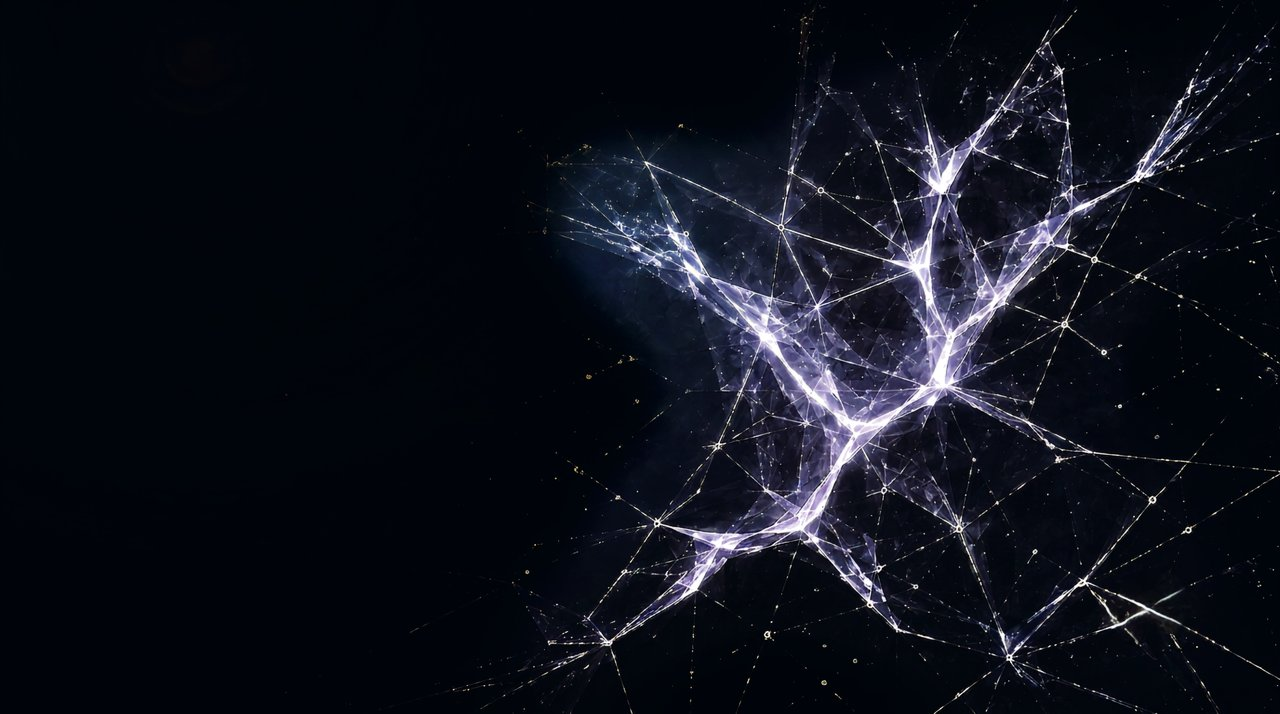
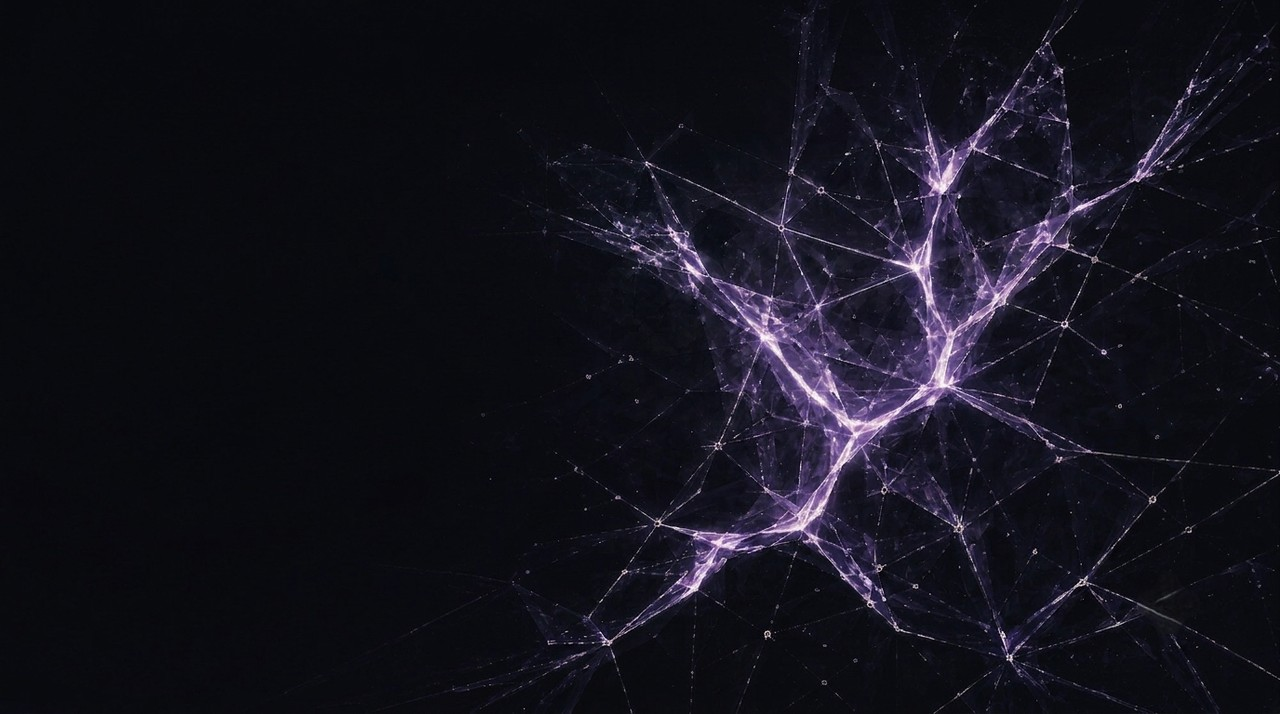
Align hero to Image 1 master and Image 2 layout
Use Image 1 as the exact cover background without recoloring.
Match header/typography spacing and the seven date labels from
Image 2 as plain serif text; remove hero gradients, fade overlay,
and year text-shadow.

diff --git a/index.html b/index.html
@@ -62,61 +62,49 @@ section{padding:104px 0}
 .sect-head p{color:var(--ink-2);margin-top:16px;font-size:18px;max-width:680px}
 .hr{height:1px;background:var(--line-strong);width:72px;margin-top:30px}
 
-/* NAV — бренд слева, пункты макета справа; над героем — светлый капс */
+/* NAV — над героем: кластер ссылок как в утверждённом макете (Image 2);
+   ниже героя — бренд слева, пункты справа */
 nav{position:sticky;top:0;z-index:50;background:rgba(239,241,244,.9);backdrop-filter:blur(12px);border-bottom:1px solid var(--line);transition:background-color .3s ease,border-color .3s ease}
 nav .wrap{display:flex;align-items:center;gap:16px;min-height:var(--navh);height:auto;padding-top:10px;padding-bottom:10px;max-width:1320px}
-nav .brand{font-family:var(--serif);font-size:19px;font-weight:500;letter-spacing:.01em;color:var(--ink);margin-right:auto;background:none;border:none;padding:0;cursor:pointer;white-space:nowrap;transition:color .3s ease}
+nav .brand{font-family:var(--serif);font-size:19px;font-weight:500;letter-spacing:.01em;color:var(--ink);margin-right:auto;background:none;border:none;padding:0;cursor:pointer;white-space:nowrap;transition:color .3s ease,opacity .2s ease}
 .nav-links{display:flex;align-items:center;flex-wrap:wrap;justify-content:flex-end;gap:10px 22px;min-width:0}
 .navbtn{position:relative;background:none;border:none;color:var(--ink-2);font-family:var(--sans);font-size:12px;font-weight:500;letter-spacing:.14em;text-transform:uppercase;padding:8px 0;margin:0;cursor:pointer;transition:color .2s;white-space:nowrap}
 .navbtn:hover{color:var(--ink)}
 .navbtn.active{color:var(--ink)}
 .navbtn.active::after{content:"";position:absolute;left:0;right:0;bottom:2px;height:1px;background:currentColor;opacity:.45}
-body.over-hero nav{background:linear-gradient(180deg,rgba(5,10,22,.45) 0%,rgba(5,10,22,.18) 62%,rgba(5,10,22,0) 100%) no-repeat;backdrop-filter:none;border-color:transparent}
-body.over-hero nav .brand{color:var(--hero-ink)}
-body.over-hero .navbtn{color:var(--hero-ink-2)}
-body.over-hero .navbtn:hover{color:var(--hero-ink)}
-body.over-hero .navbtn.active{color:#DBD5EF}
+body.over-hero nav{background:transparent;backdrop-filter:none;border-color:transparent}
+body.over-hero nav .wrap{padding-top:28px;padding-bottom:12px}
+body.over-hero nav .brand{position:absolute;width:1px;height:1px;overflow:hidden;clip:rect(0 0 0 0);white-space:nowrap}
+body.over-hero .nav-links{justify-content:flex-start;gap:10px 41px;margin-right:auto}
+body.over-hero .navbtn{font-size:15px;letter-spacing:.08em;color:rgba(214,207,193,.9)}
+body.over-hero .navbtn:hover{color:#F0EBE3}
+body.over-hero .navbtn.active{color:#F0EBE3}
+body.over-hero .nav-tree{display:none}
 .page{display:none}
 .page.visible{display:block}
 
-/* HERO — тёмно-синее поле: слева заголовок над тонкой сиреневой линейкой,
-   подзаголовок в две строки и текстовая CTA. Светящаяся сеть — не фигура
-   рядом с текстом, а фоновая композиция: исходный PNG на всю площадь героя,
-   уходящий за правый срез кадра (см. .hero-art).
-   Фон под картинкой повторяет её тёмно-синюю заливку — он виден только до
-   загрузки изображения и по краям при экзотических пропорциях окна */
-.hero{position:relative;overflow:hidden;background:#070C16 radial-gradient(128% 118% at 6% 4%,#17417C 0%,#0E2A57 26%,#081730 56%,#060B15 100%);color:var(--hero-ink);margin-top:calc(var(--navh) * -1);padding:calc(var(--navh) + 56px) 0 140px;min-height:min(96vh,1000px);min-height:min(96svh,1000px);display:flex;align-items:center}
-.hero .wrap{width:100%;max-width:1400px;padding:0 clamp(28px,6vw,96px)}
+/* HERO — мастер-фон Image 1 без перекраски; раскладка текста/дат по Image 2.
+   Без градиентов, оверлеев и подсветки поверх арта. */
+.hero{position:relative;overflow:hidden;background:#05060A;color:var(--hero-ink);margin-top:calc(var(--navh) * -1);padding:calc(var(--navh) + 56px) 0 140px;min-height:min(96vh,1000px);min-height:min(96svh,1000px);display:flex;align-items:center}
+.hero .wrap{width:100%;max-width:1400px;padding:0 clamp(28px,4.1vw,72px)}
 .hero-grid{position:relative;z-index:2}
 .hero-copy{max-width:600px}
-.hero h1{font-size:clamp(48px,6.4vw,92px);line-height:1.04;color:var(--hero-ink);margin:0;letter-spacing:-.018em}
-/* Тонкая сиреневая линейка под заголовком — как в утверждённом макете */
-.hero h1::after{content:"";display:block;width:92px;height:1px;background:var(--hero-lilac);opacity:.55;margin-top:32px}
-.hero .sub{font-size:clamp(19px,1.7vw,22px);line-height:1.5;font-weight:400;letter-spacing:.012em;color:var(--hero-ink-2);max-width:520px;margin:28px 0 46px}
+.hero h1{font-size:clamp(48px,7.25vw,118px);line-height:1.0;color:var(--hero-ink);margin:0;letter-spacing:-.018em}
+.hero h1::after{content:"";display:block;width:min(21.3vw,338px);height:1.5px;background:rgba(217,173,223,.55);opacity:1;margin-top:42px}
+.hero .sub{font-size:clamp(19px,2.15vw,34px);line-height:1.45;font-weight:400;letter-spacing:.012em;color:#CDCBD4;max-width:560px;margin:45px 0 61px}
 .hero .sub b{color:var(--hero-ink)}
-/* Текстовая CTA со стрелкой вместо кнопки */
-.cta-link{display:inline-flex;align-items:baseline;gap:10px;background:none;border:none;border-bottom:1px solid rgba(236,237,242,.32);padding:0 2px 7px;color:var(--hero-ink);font-family:var(--sans);font-size:17px;font-weight:500;letter-spacing:.01em;cursor:pointer;transition:color .2s,border-color .25s}
-.cta-link::after{content:"→";font-size:18px;color:var(--hero-lilac);transition:transform .25s}
-.cta-link:hover{color:#FFFFFF;border-color:var(--hero-lilac)}
+.cta-link{display:inline-flex;align-items:baseline;gap:10px;background:none;border:none;border-bottom:1px solid rgba(217,173,223,.55);padding:0 2px 16px;color:#CAC8C9;font-family:var(--sans);font-size:clamp(16px,1.26vw,21px);font-weight:500;letter-spacing:.01em;cursor:pointer;transition:color .2s,border-color .25s}
+.cta-link::after{content:"→";font-size:1.05em;color:rgba(217,173,223,.85);transition:transform .25s}
+.cta-link:hover{color:#FFFFFF;border-color:rgba(217,173,223,.85)}
 .cta-link:hover::after{transform:translateX(5px)}
-/* Мягкий переход из чёрного в фарфор — без резкой смены фона */
-.hero-fade{position:absolute;left:0;right:0;bottom:0;height:130px;background:linear-gradient(180deg,rgba(239,241,244,0) 0%,rgba(239,241,244,.55) 62%,var(--porcelain) 100%);pointer-events:none}
 
-/* СВЕТЯЩАЯСЯ СЕТЬ — фоновый слой героя: эталонный PNG без изменений, без
-   масок, фильтров и затемнений. Слой лежит на всей площади героя и выше
-   .hero-fade — композицию ничем не притеняем, растворение в фарфор видно
-   только пока картинка не загрузилась.
-   Картинка масштабируется по высоте героя и прижата левым краем: тогда
-   тёмно-синее поле исходника всегда остаётся под текстом, а сеть уходит за
-   правый край кадра — ровно так, как она обрезана в оригинале. На кадрах
-   шире 16:9 min-width добирает ширину, и обрезка идёт по высоте */
+/* Мастер Image 1: cover + object-position как в Image 2; без фильтров/масок */
 .hero-art{position:absolute;inset:0;pointer-events:none;z-index:1}
-.hero-art picture,.hero-art img{position:absolute;left:0;top:0;display:block;height:100%;width:auto;min-width:100%;max-width:none;z-index:0}
-.hero-art img{object-fit:cover;object-position:0 50%}
+.hero-art picture,.hero-art img{position:absolute;inset:0;display:block;width:100%;height:100%;max-width:none;min-width:0;z-index:0}
+.hero-art img{object-fit:cover;object-position:57% 50%}
 .hero-years{position:absolute;inset:0;z-index:3;pointer-events:none}
-.hero-year{position:absolute;transform:translate(-50%,-50%);font-family:var(--sans);font-size:13px;font-weight:400;letter-spacing:.08em;color:rgba(220,224,236,.42);text-shadow:0 0 10px rgba(6,10,20,.55);white-space:nowrap;font-variant-numeric:tabular-nums;background:none;border:none;padding:0;box-shadow:none;backdrop-filter:none}
-@media(max-aspect-ratio:5/4),(max-width:980px){
-  .hero-art picture,.hero-art img{left:auto;right:0;top:auto;bottom:0;width:555%;height:auto;min-width:0}
+.hero-year{position:absolute;transform:translate(-50%,-50%);font-family:var(--serif);font-size:clamp(11px,1.45svh,16px);font-weight:400;letter-spacing:.24em;color:rgba(228,222,209,.95);white-space:nowrap;font-variant-numeric:tabular-nums;background:none;border:none;padding:0;box-shadow:none;text-shadow:none}
+@media(max-width:980px){
   .hero-year{font-size:12px}
 }
 
@@ -400,8 +388,8 @@ footer b{color:var(--hero-ink)}
   .navbtn{padding:8px 0;margin-left:0;font-size:10.5px;letter-spacing:.1em}
   .hero{padding:calc(var(--navh) + 44px) 0 min(118vw,560px)}
   .hero-grid{padding-bottom:8px}
-  .hero h1::after{width:64px;margin-top:22px}
-  .hero .sub{font-size:18px;margin:20px 0 34px}
+  .hero h1::after{width:min(40vw,200px);margin-top:28px}
+  .hero .sub{font-size:18px;margin:28px 0 40px}
   /* На узком экране сеть разрежается: гаснут дальняя пыль, самый слабый
      ярус рёбер и тонкие веточки — хребты, узлы и годы остаются */
   .lattice .e3,.lattice .vp.p2,.lattice .br.b-far{display:none}
@@ -426,7 +414,6 @@ footer b{color:var(--hero-ink)}
   .lattice .nd.hot{r:2.8}
   .lattice .yr{font-size:16px}
   .lattice .tick{stroke-width:1}
-  .hero-fade{height:96px}
   .facts{padding:40px 0 36px}
   .facts-lead{font-size:17px;margin-bottom:30px}
   .facts-note{margin-top:26px}
@@ -449,7 +436,7 @@ footer b{color:var(--hero-ink)}
 <nav>
   <div class="wrap">
     <button class="brand" type="button" data-nav="top">Структура поколений</button>
-    <div class="nav-links"><button class="navbtn active" id="nb1" type="button" data-nav="top">О проекте</button><button class="navbtn" type="button" data-nav="line">Ветви</button><button class="navbtn" type="button" data-nav="sources">Документы</button><button class="navbtn" type="button" data-nav="places">Места</button><button class="navbtn" type="button" data-nav="timeline">Хроника</button><button class="navbtn" type="button" data-nav="contacts">Контакты</button><button class="navbtn" id="nb-tree" type="button" data-nav="tree">Древо</button></div>
+    <div class="nav-links"><button class="navbtn active" id="nb1" type="button" data-nav="top">О проекте</button><button class="navbtn" type="button" data-nav="line">Ветви</button><button class="navbtn" type="button" data-nav="sources">Документы</button><button class="navbtn" type="button" data-nav="places">Места</button><button class="navbtn" type="button" data-nav="timeline">Хроника</button><button class="navbtn" type="button" data-nav="contacts">Контакты</button><button class="navbtn nav-tree" id="nb-tree" type="button" data-nav="tree">Древо</button></div>
   </div>
 </nav>
 
@@ -458,9 +445,9 @@ footer b{color:var(--hero-ink)}
   <div class="hero-art" aria-hidden="true">
     <picture>
       <source type="image/webp" srcset="assets/hero-bg-1280.webp 1280w, assets/hero-bg.webp 1920w" sizes="100vw">
-      <img src="assets/hero-bg.jpg" srcset="assets/hero-bg-1280.jpg 1280w, assets/hero-bg.jpg 1920w" sizes="100vw" alt="" width="1920" height="1072" decoding="async" fetchpriority="high">
+      <img src="assets/hero-bg.jpg" srcset="assets/hero-bg-1280.jpg 1280w, assets/hero-bg.jpg 1920w" sizes="100vw" alt="" width="1376" height="768" decoding="async" fetchpriority="high">
     </picture>
-    <div class="hero-years" aria-hidden="true"><span class="hero-year" style="left:84.0%;top:14.0%">1971</span><span class="hero-year" style="left:68.0%;top:22.0%">1931</span><span class="hero-year" style="left:91.0%;top:40.0%">1892</span><span class="hero-year" style="left:54.0%;top:34.0%">1870</span><span class="hero-year" style="left:93.0%;top:62.0%">1818</span><span class="hero-year" style="left:52.0%;top:60.0%">1790</span><span class="hero-year" style="left:40.0%;top:85.0%">1768</span></div>
+    <div class="hero-years" aria-hidden="true"><span class="hero-year" style="left:56.0%;top:11.4%">1834</span><span class="hero-year" style="left:87.7%;top:13.0%">1858</span><span class="hero-year" style="left:91.6%;top:46.5%">1870</span><span class="hero-year" style="left:95.2%;top:59.5%">1918</span><span class="hero-year" style="left:51.0%;top:66.9%">1945</span><span class="hero-year" style="left:42.4%;top:74.2%">1956</span><span class="hero-year" style="left:84.5%;top:73.5%">2001</span></div>
   </div>
   <div class="wrap hero-grid">
     <div class="hero-copy">
@@ -469,7 +456,6 @@ footer b{color:var(--hero-ink)}
       <button class="cta-link" type="button" data-nav="tree">Исследовать архив</button>
     </div>
   </div>
-  <div class="hero-fade" aria-hidden="true"></div>
 </header>
 
 <div class="facts">

diff --git a/assets/site.css b/assets/site.css
@@ -56,61 +56,49 @@ section{padding:104px 0}
 .sect-head p{color:var(--ink-2);margin-top:16px;font-size:18px;max-width:680px}
 .hr{height:1px;background:var(--line-strong);width:72px;margin-top:30px}
 
-/* NAV — бренд слева, пункты макета справа; над героем — светлый капс */
+/* NAV — над героем: кластер ссылок как в утверждённом макете (Image 2);
+   ниже героя — бренд слева, пункты справа */
 nav{position:sticky;top:0;z-index:50;background:rgba(239,241,244,.9);backdrop-filter:blur(12px);border-bottom:1px solid var(--line);transition:background-color .3s ease,border-color .3s ease}
 nav .wrap{display:flex;align-items:center;gap:16px;min-height:var(--navh);height:auto;padding-top:10px;padding-bottom:10px;max-width:1320px}
-nav .brand{font-family:var(--serif);font-size:19px;font-weight:500;letter-spacing:.01em;color:var(--ink);margin-right:auto;background:none;border:none;padding:0;cursor:pointer;white-space:nowrap;transition:color .3s ease}
+nav .brand{font-family:var(--serif);font-size:19px;font-weight:500;letter-spacing:.01em;color:var(--ink);margin-right:auto;background:none;border:none;padding:0;cursor:pointer;white-space:nowrap;transition:color .3s ease,opacity .2s ease}
 .nav-links{display:flex;align-items:center;flex-wrap:wrap;justify-content:flex-end;gap:10px 22px;min-width:0}
 .navbtn{position:relative;background:none;border:none;color:var(--ink-2);font-family:var(--sans);font-size:12px;font-weight:500;letter-spacing:.14em;text-transform:uppercase;padding:8px 0;margin:0;cursor:pointer;transition:color .2s;white-space:nowrap}
 .navbtn:hover{color:var(--ink)}
 .navbtn.active{color:var(--ink)}
 .navbtn.active::after{content:"";position:absolute;left:0;right:0;bottom:2px;height:1px;background:currentColor;opacity:.45}
-body.over-hero nav{background:linear-gradient(180deg,rgba(5,10,22,.45) 0%,rgba(5,10,22,.18) 62%,rgba(5,10,22,0) 100%) no-repeat;backdrop-filter:none;border-color:transparent}
-body.over-hero nav .brand{color:var(--hero-ink)}
-body.over-hero .navbtn{color:var(--hero-ink-2)}
-body.over-hero .navbtn:hover{color:var(--hero-ink)}
-body.over-hero .navbtn.active{color:#DBD5EF}
+body.over-hero nav{background:transparent;backdrop-filter:none;border-color:transparent}
+body.over-hero nav .wrap{padding-top:28px;padding-bottom:12px}
+body.over-hero nav .brand{position:absolute;width:1px;height:1px;overflow:hidden;clip:rect(0 0 0 0);white-space:nowrap}
+body.over-hero .nav-links{justify-content:flex-start;gap:10px 41px;margin-right:auto}
+body.over-hero .navbtn{font-size:15px;letter-spacing:.08em;color:rgba(214,207,193,.9)}
+body.over-hero .navbtn:hover{color:#F0EBE3}
+body.over-hero .navbtn.active{color:#F0EBE3}
+body.over-hero .nav-tree{display:none}
 .page{display:none}
 .page.visible{display:block}
 
-/* HERO — тёмно-синее поле: слева заголовок над тонкой сиреневой линейкой,
-   подзаголовок в две строки и текстовая CTA. Светящаяся сеть — не фигура
-   рядом с текстом, а фоновая композиция: исходный PNG на всю площадь героя,
-   уходящий за правый срез кадра (см. .hero-art).
-   Фон под картинкой повторяет её тёмно-синюю заливку — он виден только до
-   загрузки изображения и по краям при экзотических пропорциях окна */
-.hero{position:relative;overflow:hidden;background:#070C16 radial-gradient(128% 118% at 6% 4%,#17417C 0%,#0E2A57 26%,#081730 56%,#060B15 100%);color:var(--hero-ink);margin-top:calc(var(--navh) * -1);padding:calc(var(--navh) + 56px) 0 140px;min-height:min(96vh,1000px);min-height:min(96svh,1000px);display:flex;align-items:center}
-.hero .wrap{width:100%;max-width:1400px;padding:0 clamp(28px,6vw,96px)}
+/* HERO — мастер-фон Image 1 без перекраски; раскладка текста/дат по Image 2.
+   Без градиентов, оверлеев и подсветки поверх арта. */
+.hero{position:relative;overflow:hidden;background:#05060A;color:var(--hero-ink);margin-top:calc(var(--navh) * -1);padding:calc(var(--navh) + 56px) 0 140px;min-height:min(96vh,1000px);min-height:min(96svh,1000px);display:flex;align-items:center}
+.hero .wrap{width:100%;max-width:1400px;padding:0 clamp(28px,4.1vw,72px)}
 .hero-grid{position:relative;z-index:2}
 .hero-copy{max-width:600px}
-.hero h1{font-size:clamp(48px,6.4vw,92px);line-height:1.04;color:var(--hero-ink);margin:0;letter-spacing:-.018em}
-/* Тонкая сиреневая линейка под заголовком — как в утверждённом макете */
-.hero h1::after{content:"";display:block;width:92px;height:1px;background:var(--hero-lilac);opacity:.55;margin-top:32px}
-.hero .sub{font-size:clamp(19px,1.7vw,22px);line-height:1.5;font-weight:400;letter-spacing:.012em;color:var(--hero-ink-2);max-width:520px;margin:28px 0 46px}
+.hero h1{font-size:clamp(48px,7.25vw,118px);line-height:1.0;color:var(--hero-ink);margin:0;letter-spacing:-.018em}
+.hero h1::after{content:"";display:block;width:min(21.3vw,338px);height:1.5px;background:rgba(217,173,223,.55);opacity:1;margin-top:42px}
+.hero .sub{font-size:clamp(19px,2.15vw,34px);line-height:1.45;font-weight:400;letter-spacing:.012em;color:#CDCBD4;max-width:560px;margin:45px 0 61px}
 .hero .sub b{color:var(--hero-ink)}
-/* Текстовая CTA со стрелкой вместо кнопки */
-.cta-link{display:inline-flex;align-items:baseline;gap:10px;background:none;border:none;border-bottom:1px solid rgba(236,237,242,.32);padding:0 2px 7px;color:var(--hero-ink);font-family:var(--sans);font-size:17px;font-weight:500;letter-spacing:.01em;cursor:pointer;transition:color .2s,border-color .25s}
-.cta-link::after{content:"→";font-size:18px;color:var(--hero-lilac);transition:transform .25s}
-.cta-link:hover{color:#FFFFFF;border-color:var(--hero-lilac)}
+.cta-link{display:inline-flex;align-items:baseline;gap:10px;background:none;border:none;border-bottom:1px solid rgba(217,173,223,.55);padding:0 2px 16px;color:#CAC8C9;font-family:var(--sans);font-size:clamp(16px,1.26vw,21px);font-weight:500;letter-spacing:.01em;cursor:pointer;transition:color .2s,border-color .25s}
+.cta-link::after{content:"→";font-size:1.05em;color:rgba(217,173,223,.85);transition:transform .25s}
+.cta-link:hover{color:#FFFFFF;border-color:rgba(217,173,223,.85)}
 .cta-link:hover::after{transform:translateX(5px)}
-/* Мягкий переход из чёрного в фарфор — без резкой смены фона */
-.hero-fade{position:absolute;left:0;right:0;bottom:0;height:130px;background:linear-gradient(180deg,rgba(239,241,244,0) 0%,rgba(239,241,244,.55) 62%,var(--porcelain) 100%);pointer-events:none}
 
-/* СВЕТЯЩАЯСЯ СЕТЬ — фоновый слой героя: эталонный PNG без изменений, без
-   масок, фильтров и затемнений. Слой лежит на всей площади героя и выше
-   .hero-fade — композицию ничем не притеняем, растворение в фарфор видно
-   только пока картинка не загрузилась.
-   Картинка масштабируется по высоте героя и прижата левым краем: тогда
-   тёмно-синее поле исходника всегда остаётся под текстом, а сеть уходит за
-   правый край кадра — ровно так, как она обрезана в оригинале. На кадрах
-   шире 16:9 min-width добирает ширину, и обрезка идёт по высоте */
+/* Мастер Image 1: cover + object-position как в Image 2; без фильтров/масок */
 .hero-art{position:absolute;inset:0;pointer-events:none;z-index:1}
-.hero-art picture,.hero-art img{position:absolute;left:0;top:0;display:block;height:100%;width:auto;min-width:100%;max-width:none;z-index:0}
-.hero-art img{object-fit:cover;object-position:0 50%}
+.hero-art picture,.hero-art img{position:absolute;inset:0;display:block;width:100%;height:100%;max-width:none;min-width:0;z-index:0}
+.hero-art img{object-fit:cover;object-position:57% 50%}
 .hero-years{position:absolute;inset:0;z-index:3;pointer-events:none}
-.hero-year{position:absolute;transform:translate(-50%,-50%);font-family:var(--sans);font-size:13px;font-weight:400;letter-spacing:.08em;color:rgba(220,224,236,.42);text-shadow:0 0 10px rgba(6,10,20,.55);white-space:nowrap;font-variant-numeric:tabular-nums;background:none;border:none;padding:0;box-shadow:none;backdrop-filter:none}
-@media(max-aspect-ratio:5/4),(max-width:980px){
-  .hero-art picture,.hero-art img{left:auto;right:0;top:auto;bottom:0;width:555%;height:auto;min-width:0}
+.hero-year{position:absolute;transform:translate(-50%,-50%);font-family:var(--serif);font-size:clamp(11px,1.45svh,16px);font-weight:400;letter-spacing:.24em;color:rgba(228,222,209,.95);white-space:nowrap;font-variant-numeric:tabular-nums;background:none;border:none;padding:0;box-shadow:none;text-shadow:none}
+@media(max-width:980px){
   .hero-year{font-size:12px}
 }
 
@@ -394,8 +382,8 @@ footer b{color:var(--hero-ink)}
   .navbtn{padding:8px 0;margin-left:0;font-size:10.5px;letter-spacing:.1em}
   .hero{padding:calc(var(--navh) + 44px) 0 min(118vw,560px)}
   .hero-grid{padding-bottom:8px}
-  .hero h1::after{width:64px;margin-top:22px}
-  .hero .sub{font-size:18px;margin:20px 0 34px}
+  .hero h1::after{width:min(40vw,200px);margin-top:28px}
+  .hero .sub{font-size:18px;margin:28px 0 40px}
   /* На узком экране сеть разрежается: гаснут дальняя пыль, самый слабый
      ярус рёбер и тонкие веточки — хребты, узлы и годы остаются */
   .lattice .e3,.lattice .vp.p2,.lattice .br.b-far{display:none}
@@ -420,7 +408,6 @@ footer b{color:var(--hero-ink)}
   .lattice .nd.hot{r:2.8}
   .lattice .yr{font-size:16px}
   .lattice .tick{stroke-width:1}
-  .hero-fade{height:96px}
   .facts{padding:40px 0 36px}
   .facts-lead{font-size:17px;margin-bottom:30px}
   .facts-note{margin-top:26px}

diff --git a/scripts/build_site.py b/scripts/build_site.py
@@ -40,16 +40,16 @@ HERO_IMAGE_WEBP = "assets/hero-bg.webp"
 HERO_IMAGE_JPG = "assets/hero-bg.jpg"
 HERO_IMAGE_WEBP_SM = "assets/hero-bg-1280.webp"
 HERO_IMAGE_JPG_SM = "assets/hero-bg-1280.jpg"
-# Percentage slots on the hero background for timeline years (newest first).
-# Placed near bright nodes but slightly offset into darker pockets for contrast.
+# Hero date labels from the approved layout (Image 2): plain year text only.
+# Positions are % of the hero frame (centers), measured on Image 2.
 HERO_YEAR_SLOTS = [
-    (84.0, 14.0),
-    (68.0, 22.0),
-    (91.0, 40.0),
-    (54.0, 34.0),
-    (93.0, 62.0),
-    (52.0, 60.0),
-    (40.0, 85.0),  # 1768 — тёмный карман слева от яркого нижнего узла
+    ("1834", 56.0, 11.4),
+    ("1858", 87.7, 13.0),
+    ("1870", 91.6, 46.5),
+    ("1918", 95.2, 59.5),
+    ("1945", 51.0, 66.9),
+    ("1956", 42.4, 74.2),
+    ("2001", 84.5, 73.5),
 ]
 
 STATUS_BADGE_W = {"ok": 100, "hyp": 74, "q": 86}
@@ -1781,7 +1781,7 @@ def render_nav(meta_content: dict[str, Any]) -> str:
             f'data-nav="{esc(item["target"])}">{esc(item["label"])}</button>'
         )
     items.append(
-        f'<button class="navbtn" id="nb-tree" type="button" data-nav="tree">'
+        f'<button class="navbtn nav-tree" id="nb-tree" type="button" data-nav="tree">'
         f'{esc(meta_content["nav_tree"])}</button>'
     )
     return f"""<nav>
@@ -1794,17 +1794,15 @@ def render_nav(meta_content: dict[str, Any]) -> str:
 """
 
 
-def render_hero_year_labels(years: list[tuple[str, bool]]) -> str:
-    """Float quiet year marks over the artwork as illustration only."""
-    parts: list[str] = []
-    for index, (year, _approx) in enumerate(years):
-        if index >= len(HERO_YEAR_SLOTS):
-            break
-        left, top = HERO_YEAR_SLOTS[index]
-        parts.append(
+def render_hero_year_labels() -> str:
+    """Float plain year marks over the master artwork (layout from Image 2)."""
+    parts = [
+        (
             f'<span class="hero-year" style="left:{left:.1f}%;top:{top:.1f}%">'
             f"{esc(year)}</span>"
         )
+        for year, left, top in HERO_YEAR_SLOTS
+    ]
     if not parts:
         return ""
     return f'<div class="hero-years" aria-hidden="true">{"".join(parts)}</div>'
@@ -1817,16 +1815,16 @@ def render_hero_section(
     export_date: str,
     father_line: list[Person],
 ) -> str:
-    """Dark hero: title, subtitle and CTA over the optimized reference artwork.
-    Timeline years are annotated on top of the network without rearranging it."""
+    """Dark hero: title, subtitle and CTA over the master artwork (Image 1).
+    Date labels follow the approved layout (Image 2) without redesigning the art."""
     years = hero_graph_years(father_line)
     caption = hero_graph_caption(hero, years)
-    year_labels = render_hero_year_labels(years)
+    year_labels = render_hero_year_labels()
     return f"""<header class="hero" id="top">
   <div class="hero-art" aria-hidden="true">
     <picture>
       <source type="image/webp" srcset="{HERO_IMAGE_WEBP_SM} 1280w, {HERO_IMAGE_WEBP} 1920w" sizes="100vw">
-      <img src="{HERO_IMAGE_JPG}" srcset="{HERO_IMAGE_JPG_SM} 1280w, {HERO_IMAGE_JPG} 1920w" sizes="100vw" alt="" width="1920" height="1072" decoding="async" fetchpriority="high">
+      <img src="{HERO_IMAGE_JPG}" srcset="{HERO_IMAGE_JPG_SM} 1280w, {HERO_IMAGE_JPG} 1920w" sizes="100vw" alt="" width="1376" height="768" decoding="async" fetchpriority="high">
     </picture>
     {year_labels}
   </div>
@@ -1837,7 +1835,6 @@ def render_hero_section(
       <button class="cta-link" type="button" data-nav="tree">{esc(hero["cta"])}</button>
     </div>
   </div>
-  <div class="hero-fade" aria-hidden="true"></div>
 </header>
 
 <div class="facts">
